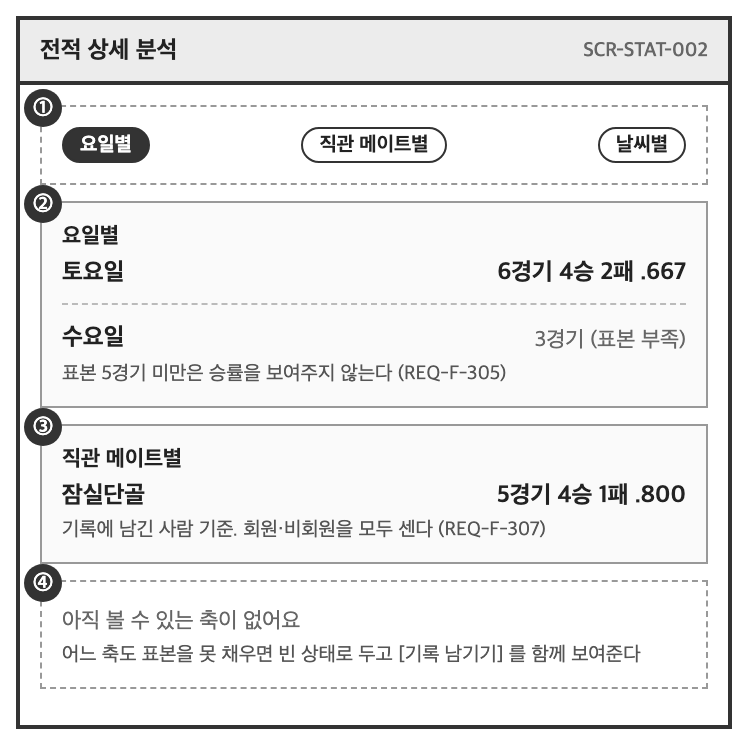
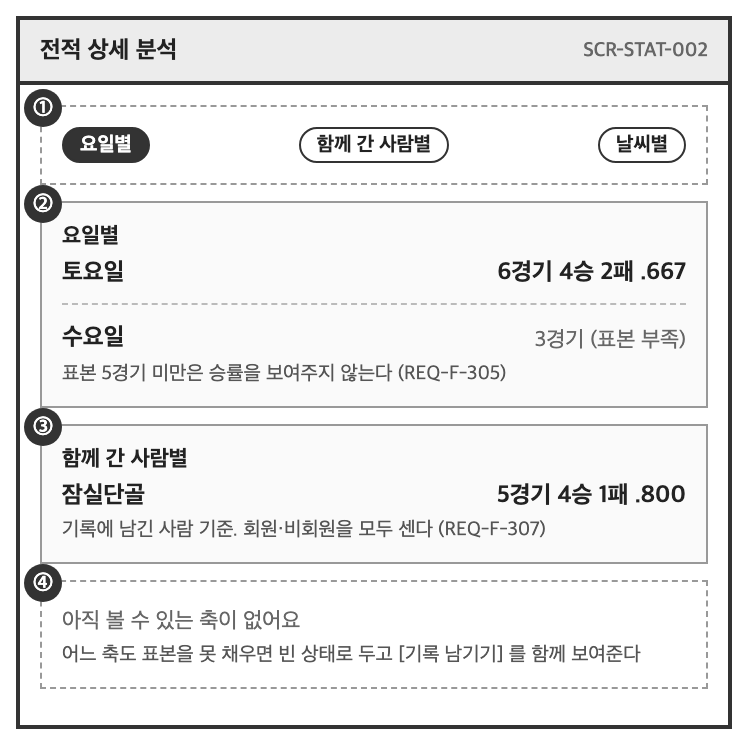
[DOCS] fix: 기록에 남기는 사람과 모집으로 만나는 사람을 다시 갈라놓는다
"동행자" 를 "직관 메이트" 로 일괄 치환한 것이 두 개념을 하나로 뭉갰다.
4.3 MVP 제외 기능 표에 "직관 메이트 · 비용 · 평점 기록" 과 "직관 메이트 ·
관람 계획" 두 행이 같은 이름으로 나란히 서 있었다. 서로 다른 것을 가리키는데
읽는 사람은 구분할 수 없다.

기록에 남기는 쪽을 "함께 간 사람" 으로 되돌린다. 서비스 회원이 아닐 수도
있고 모집을 거치지도 않으므로 모집 기능의 직관 메이트와는 다르다.
9장 용어 정의에 둘의 차이를 적었다.

같은 점검에서 사실과 다른 서술 둘을 찾았다.

- 0장이 경기 데이터를 "이중 출처로 확보한다" 고 적었는데 부록의 결론은
  운영자 등록 단일 경로다. 외부는 제공자 인터페이스 뒤에 두어 선택을 미뤘다
- 데이터 모델의 선착순 확정 설명이 두 겹으로만 적혀 있었다. 실제로는
  정원 검사 · 낙관적 잠금 · CHECK 제약 세 겹이고 REQ-NF-011 도 그렇게 적었다.
  데이터베이스에서 ck_post_capacity 를 확인했다

작성일이 최종 수정일로 덮여 있던 것도 되돌렸다.

Changed region(s): [[0.3997, 0.1544, 0.615, 0.2161], [0.0615, 0.5866, 0.246, 0.6483]]

diff --git a/docs/_assets/wireframes/SCR-STAT-002.html b/docs/_assets/wireframes/SCR-STAT-002.html
@@ -4,7 +4,7 @@
 <div class="f-head"><span>전적 상세 분석</span><span class="sid">SCR-STAT-002</span></div>
 <div class="f-body">
 <div class="blk plain"><span class="n">①</span>
-  <div class="row"><span class="pill fill">요일별</span><span class="pill">직관 메이트별</span><span class="pill">날씨별</span></div>
+  <div class="row"><span class="pill fill">요일별</span><span class="pill">함께 간 사람별</span><span class="pill">날씨별</span></div>
 </div>
 <div class="blk"><span class="n">②</span>
   <div class="lab">요일별</div>
@@ -14,7 +14,7 @@
   <div class="note">표본 5경기 미만은 승률을 보여주지 않는다 (REQ-F-305)</div>
 </div>
 <div class="blk"><span class="n">③</span>
-  <div class="lab">직관 메이트별</div>
+  <div class="lab">함께 간 사람별</div>
   <div class="row"><span class="t">잠실단골</span><span class="t">5경기 4승 1패 .800</span></div>
   <div class="note">기록에 남긴 사람 기준. 회원·비회원을 모두 센다 (REQ-F-307)</div>
 </div>

diff --git a/docs/_assets/wireframes/SCR-LOG-001-PC.html b/docs/_assets/wireframes/SCR-LOG-001-PC.html
@@ -44,8 +44,8 @@
     <div class="note" style="text-align:right">0 / 1000</div>
   </div>
   <div class="blk"><span class="n">⑦⑧⑨</span>
-    <div class="lab">직관 메이트 · 비용 · 경기 평점</div>
-    <div class="row"><span class="inp" style="flex:1">＋ 메이트 추가</span><span class="inp" style="flex:1">티켓</span><span class="inp" style="flex:1">먹거리</span><span class="inp" style="flex:1">교통</span></div>
+    <div class="lab">함께 간 사람 · 비용 · 경기 평점</div>
+    <div class="row"><span class="inp" style="flex:1">＋ 사람 추가</span><span class="inp" style="flex:1">티켓</span><span class="inp" style="flex:1">먹거리</span><span class="inp" style="flex:1">교통</span></div>
     <div class="stars" style="margin-top:6px">★ ☆ ☆ ☆ ☆</div>
     <div class="note">선택 항목. 모바일에서 세 줄이던 것이 한 줄에 들어간다</div>
   </div>

diff --git a/docs/_assets/wireframes/SCR-LOG-001.html b/docs/_assets/wireframes/SCR-LOG-001.html
@@ -41,7 +41,7 @@
 </div>
 
 <div class="blk"><span class="n">⑦⑧⑨</span>
-  <div class="lab">직관 메이트 / 비용 / 경기 평점</div>
+  <div class="lab">함께 간 사람 / 비용 / 경기 평점</div>
   <div class="row"><span class="inp" style="flex:1">티켓</span><span class="inp" style="flex:1">먹거리</span><span class="inp" style="flex:1">교통</span></div>
   <div class="stars" style="margin-top:6px">★ ☆ ☆ ☆ ☆</div>
 </div>

diff --git a/docs/01_기술서/01_요구사항정의서.md b/docs/01_기술서/01_요구사항정의서.md
@@ -129,7 +129,7 @@
 | REQ-F-206 | 기록 | 작성 | 구역 만족도 입력 | 선택한 구역의 시야 만족도를 5점 척도로 입력한다. | MVP | Must | 하 | SCR-LOG-001 ⑤ | REQ-F-110 집계의 입력원 |
 | REQ-F-207 | 기록 | 작성 | 메모 작성 | 경기에 대한 감상을 자유 텍스트로 남긴다. | MVP | Must | 하 | SCR-LOG-001 ⑥ | 최대 1000자 |
 | REQ-F-208 | 기록 | 작성 | 공개 범위 설정 | 기록을 전체 공개 또는 비공개로 설정한다. | MVP | Must | 하 | SCR-LOG-001 ⑩ | 기본값 비공개, 구역 만족도 점수는 익명으로 집계에 반영 |
-| REQ-F-209 | 기록 | 작성 | 직관 메이트 기록 | 함께 관람한 사람을 기록한다. 서비스 회원과 비회원(이름 입력)을 모두 지원한다. | 확장 | Should | 중 | SCR-LOG-001 ⑦ | 직관 메이트별 전적 집계의 입력원 |
+| REQ-F-209 | 기록 | 작성 | 함께 간 사람 기록 | 함께 관람한 사람을 기록한다. 서비스 회원과 비회원(이름 입력)을 모두 지원한다. | 확장 | Should | 중 | SCR-LOG-001 ⑦ | 직관 메이트별 전적 집계의 입력원 |
 | REQ-F-210 | 기록 | 작성 | 관람 비용 기록 | 티켓, 식음료, 교통 비용을 각각 입력한다. | 확장 | Should | 하 | SCR-LOG-001 ⑧ | 미입력 허용 |
 | REQ-F-211 | 기록 | 작성 | 경기 평점 | 승패와 별개로 경기 만족도를 5점 척도로 남긴다. | 확장 | Could | 하 | SCR-LOG-001 ⑨ |  |
 | REQ-F-212 | 기록 | 관리 | 기록 수정 · 삭제 | 본인이 작성한 기록을 수정하거나 삭제한다. | MVP | Must | 하 | SCR-LOG-003 | 삭제 시 관련 집계를 재계산한다. |
@@ -148,7 +148,7 @@
 | REQ-F-304 | 전적 | 집계 | 요일별 · 시즌별 전적 | 요일과 시즌 단위로 전적을 산출한다. | 확장 | Should | 중 | SCR-STAT-002 |  |
 | REQ-F-305 | 전적 | 표시 | 소표본 표시 정책 | 구장별 · 상대팀별 · 요일별처럼 여러 항목이 나란히 놓이는 집계는, 표본이 기준 미만이면 승률을 산출하지 않고 실제 전적(예: 2경기 2승)만 표시하며 승률 순위에서 제외한다. **통산 전적에는 적용하지 않는다.** | MVP | Must | 중 | SCR-STAT-001 ④⑤, SCR-STAT-002, SCR-PARK-002 | **기준값 5경기(설정으로 변경 가능).** 통산은 모수가 함께 보여 오해가 적지만 차원별은 나란히 놓여 순위처럼 읽힌다. API 응답은 승률을 null 로 내리고 smallSample=true 를 함께 보낸다. 구역별 만족도(REQ-F-110)에도 동일 정책을 적용한다. |
 | REQ-F-306 | 전적 | 집계 | 연승 · 연패 기록 | 관람 일자 순서 기준으로 현재 연승(연패)과 최장 연승을 산출한다. | 확장 | Should | 중 | SCR-STAT-001 ③ | **무승부는 연승을 끊지 않고 유지한다.** 중립 관람은 계산에서 제외한다. 현재 연승은 양수, 연패는 음수로 표현한다. |
-| REQ-F-307 | 전적 | 집계 | 직관 메이트별 전적 | 함께 관람한 사람별로 전적을 산출한다. | 확장 | Could | 중 | SCR-STAT-002 | REQ-F-209 입력 필요 |
+| REQ-F-307 | 전적 | 집계 | 함께 간 사람별 전적 | 함께 관람한 사람별로 전적을 산출한다. | 확장 | Could | 중 | SCR-STAT-002 | REQ-F-209 입력 필요 |
 | REQ-F-308 | 전적 | 집계 | 관람 비용 집계 | 시즌 단위 총 지출과 경기당 평균 지출을 산출한다. | 확장 | Should | 하 | SCR-STAT-002 | REQ-F-210 입력 필요 |
 | REQ-F-309 | 전적 | 갱신 | 집계 재계산 | 기록 생성·수정·삭제 또는 경기 결과 확정·정정이 발생하면 영향 범위의 집계를 다시 산출한다. | MVP | Must | 상 | — | **전체 재계산 방식.** 응원팀 변경(REQ-F-005)은 이미 작성된 기록에 소급하지 않는다. |
 | REQ-F-310 | 전적 | 집계 | 날씨별 전적 | 맑음·흐림·비 등 날씨 조건별 전적을 산출한다. | 확장 | Could | 중 | SCR-STAT-002 | REQ-F-216 입력 필요. 소표본 정책 동일 적용 |

diff --git a/docs/01_기술서/02_화면설계서.md b/docs/01_기술서/02_화면설계서.md
@@ -329,7 +329,7 @@
 | ④ | REQ-F-205 | 좌석 구역 선택 | - 선택된 경기의 구장에 등록된 구역 목록을 드롭다운으로 제공<br>- 구장이 바뀌면 선택값을 초기화<br>- **필수 항목** | REQ-F-605 |
 | ⑤ | REQ-F-206 | 구역 만족도 | - 5점 척도 별점<br>- ④ 선택 전에는 비활성<br>- **필수 항목** — 구장 상세의 집계 입력원이므로 생략을 허용하지 않는다 | REQ-F-110 |
 | ⑥ | REQ-F-207 | 메모 | - 최대 1000자, 실시간 글자 수 표시<br>- 1000자 초과 입력은 차단 | |
-| ⑦ | REQ-F-209 | 직관 메이트 | - [+ 추가] 클릭 시 회원 검색 또는 이름 직접 입력 선택<br>- 최대 10명 | |
+| ⑦ | REQ-F-209 | 함께 간 사람 | - [+ 추가] 클릭 시 회원 검색 또는 이름 직접 입력 선택<br>- 최대 10명 | |
 | ⑧ | REQ-F-210 | 관람 비용 | - 티켓 / 먹거리 / 교통을 각각 숫자 입력<br>- 0 이상 정수만 허용, 미입력 허용 | |
 | ⑨ | REQ-F-211 | 경기 평점 | - 5점 척도 별점, 미입력 허용 | |
 | ⑩ | REQ-F-208 | 공개 범위 | - 기본값 비공개<br>- 공개 선택 시 "메모가 구장 후기에 노출됩니다" 안내 표시<br>- 비공개여도 ⑤ 점수는 익명으로 집계에 반영됨을 명시 | REQ-F-111 |
@@ -391,7 +391,7 @@
 | ④ | REQ-F-302, REQ-F-305 | 구장별 전적 | - 표본이 5경기 미만인 구장은 **승률을 표시하지 않고** 전적만 표시하며 "(표본 부족)"을 병기<br>- 정렬은 경기 수 내림차순<br>- 항목 클릭 시 해당 구장 상세로 이동 | SCR-PARK-002 |
 | ⑤ | REQ-F-303, REQ-F-305 | 상대팀별 전적 | - ④와 동일한 표시 정책 적용<br>- 기본 3개 노출, [더보기]로 전체 확장 | |
 | ⑥ | REQ-F-308 | 지출 집계 | - 비용을 입력한 기록만 대상으로 집계<br>- 미입력 기록이 있으면 "n건은 비용 미입력" 표시 | REQ-F-210 |
-| ⑦ | REQ-F-304, REQ-F-307 | 상세 분석 이동 | - 요일별, 직관 메이트별 등 세부 집계 화면으로 이동 | SCR-STAT-002 |
+| ⑦ | REQ-F-304, REQ-F-307 | 상세 분석 이동 | - 요일별, 함께 간 사람별 등 세부 집계 화면으로 이동 | SCR-STAT-002 |
 
 ### 예외 처리 및 정책
 
@@ -582,7 +582,7 @@ REQ-NF-012에 따라 모바일을 기본으로 설계하되, 넓은 화면에서
 | SCR-PARK-001 | 구장 목록 | 전체 구장 카드 목록 | MVP |
 | SCR-LOG-002 | 내 기록 목록 | 연도·구장·팀 필터 | MVP |
 | SCR-LOG-003 | 기록 상세 | 기록 전체 내용, 사진 뷰어, 삭제 | MVP |
-| SCR-STAT-002 | 전적 상세 분석 | 요일별·직관 메이트별 집계 | 확장 |
+| SCR-STAT-002 | 전적 상세 분석 | 요일별 · 함께 간 사람별 집계 | 확장 |
 | SCR-MATE-001 | 메이트 구하기 | 경기일·구장 필터 | 확장 |
 | SCR-PLAN-001 | 관람 계획 편성 | 제약 조건 입력 및 후보 일정 제안 | 확장 |
 | SCR-MATE-003 | 메이트 대화방 | 확정자 전용 비공개 대화. 경기 종료 후 읽기 전용 전환 | 확장 |

diff --git a/docs/01_기술서/03_데이터모델.md b/docs/01_기술서/03_데이터모델.md
@@ -146,7 +146,7 @@
 | 중립 관람 | `cheer_team_id` 를 null 로 두어 표현한다. 별도 플래그를 두면 팀을 고르고도 중립인 상태가 생긴다 (REQ-F-202) |
 | 경기 결과 정정 | 원본을 덮어쓰지 않고 `game_revisions` 에 변경 전후 값과 사유를 남긴다. 정정이 여러 사용자 전적을 건드리므로 되짚을 수단이 있어야 한다 (REQ-F-603) |
 | 탈퇴 | `users.withdrawn_at` 만 남기고 식별 정보는 지운다. 기록을 통째로 지우면 구역 만족도 집계가 흔들린다 (REQ-F-007) |
-| 선착순 확정 | `companion_applications (companion_post_id, user_id)` 유일 제약과 `companion_posts` 의 낙관적 잠금을 함께 쓴다. 정원 초과 확정을 DB 수준에서 막는다 (REQ-F-503, 504) |
+| 선착순 확정 | 세 겹으로 막는다. ① 신청 시 정원을 확인하고 ② `companion_posts.version` 으로 낙관적 잠금을 걸어 동시 갱신을 잡아내며 ③ `confirmed_count <= capacity` CHECK 제약으로 DB 가 마지막을 막는다. 같은 사람의 중복 신청은 `companion_applications (companion_post_id, user_id)` 유일 제약이 따로 막는다 (REQ-F-503, 504, REQ-NF-011) |
 | 대화 읽음 | 메시지마다 읽음 행을 쌓지 않고 `companion_message_reads` 에 마지막 읽은 시각만 둔다. 행 수가 메시지 수 × 인원으로 늘지 않는다 (REQ-F-511) |
 | 관람일 날씨 | 예보는 사후 조회가 안 되므로 `attendance_logs` 에 그때 값을 복사해 둔다. `game_weather` 는 예보 캐시라 성격이 다르다 (REQ-F-216) |
 
